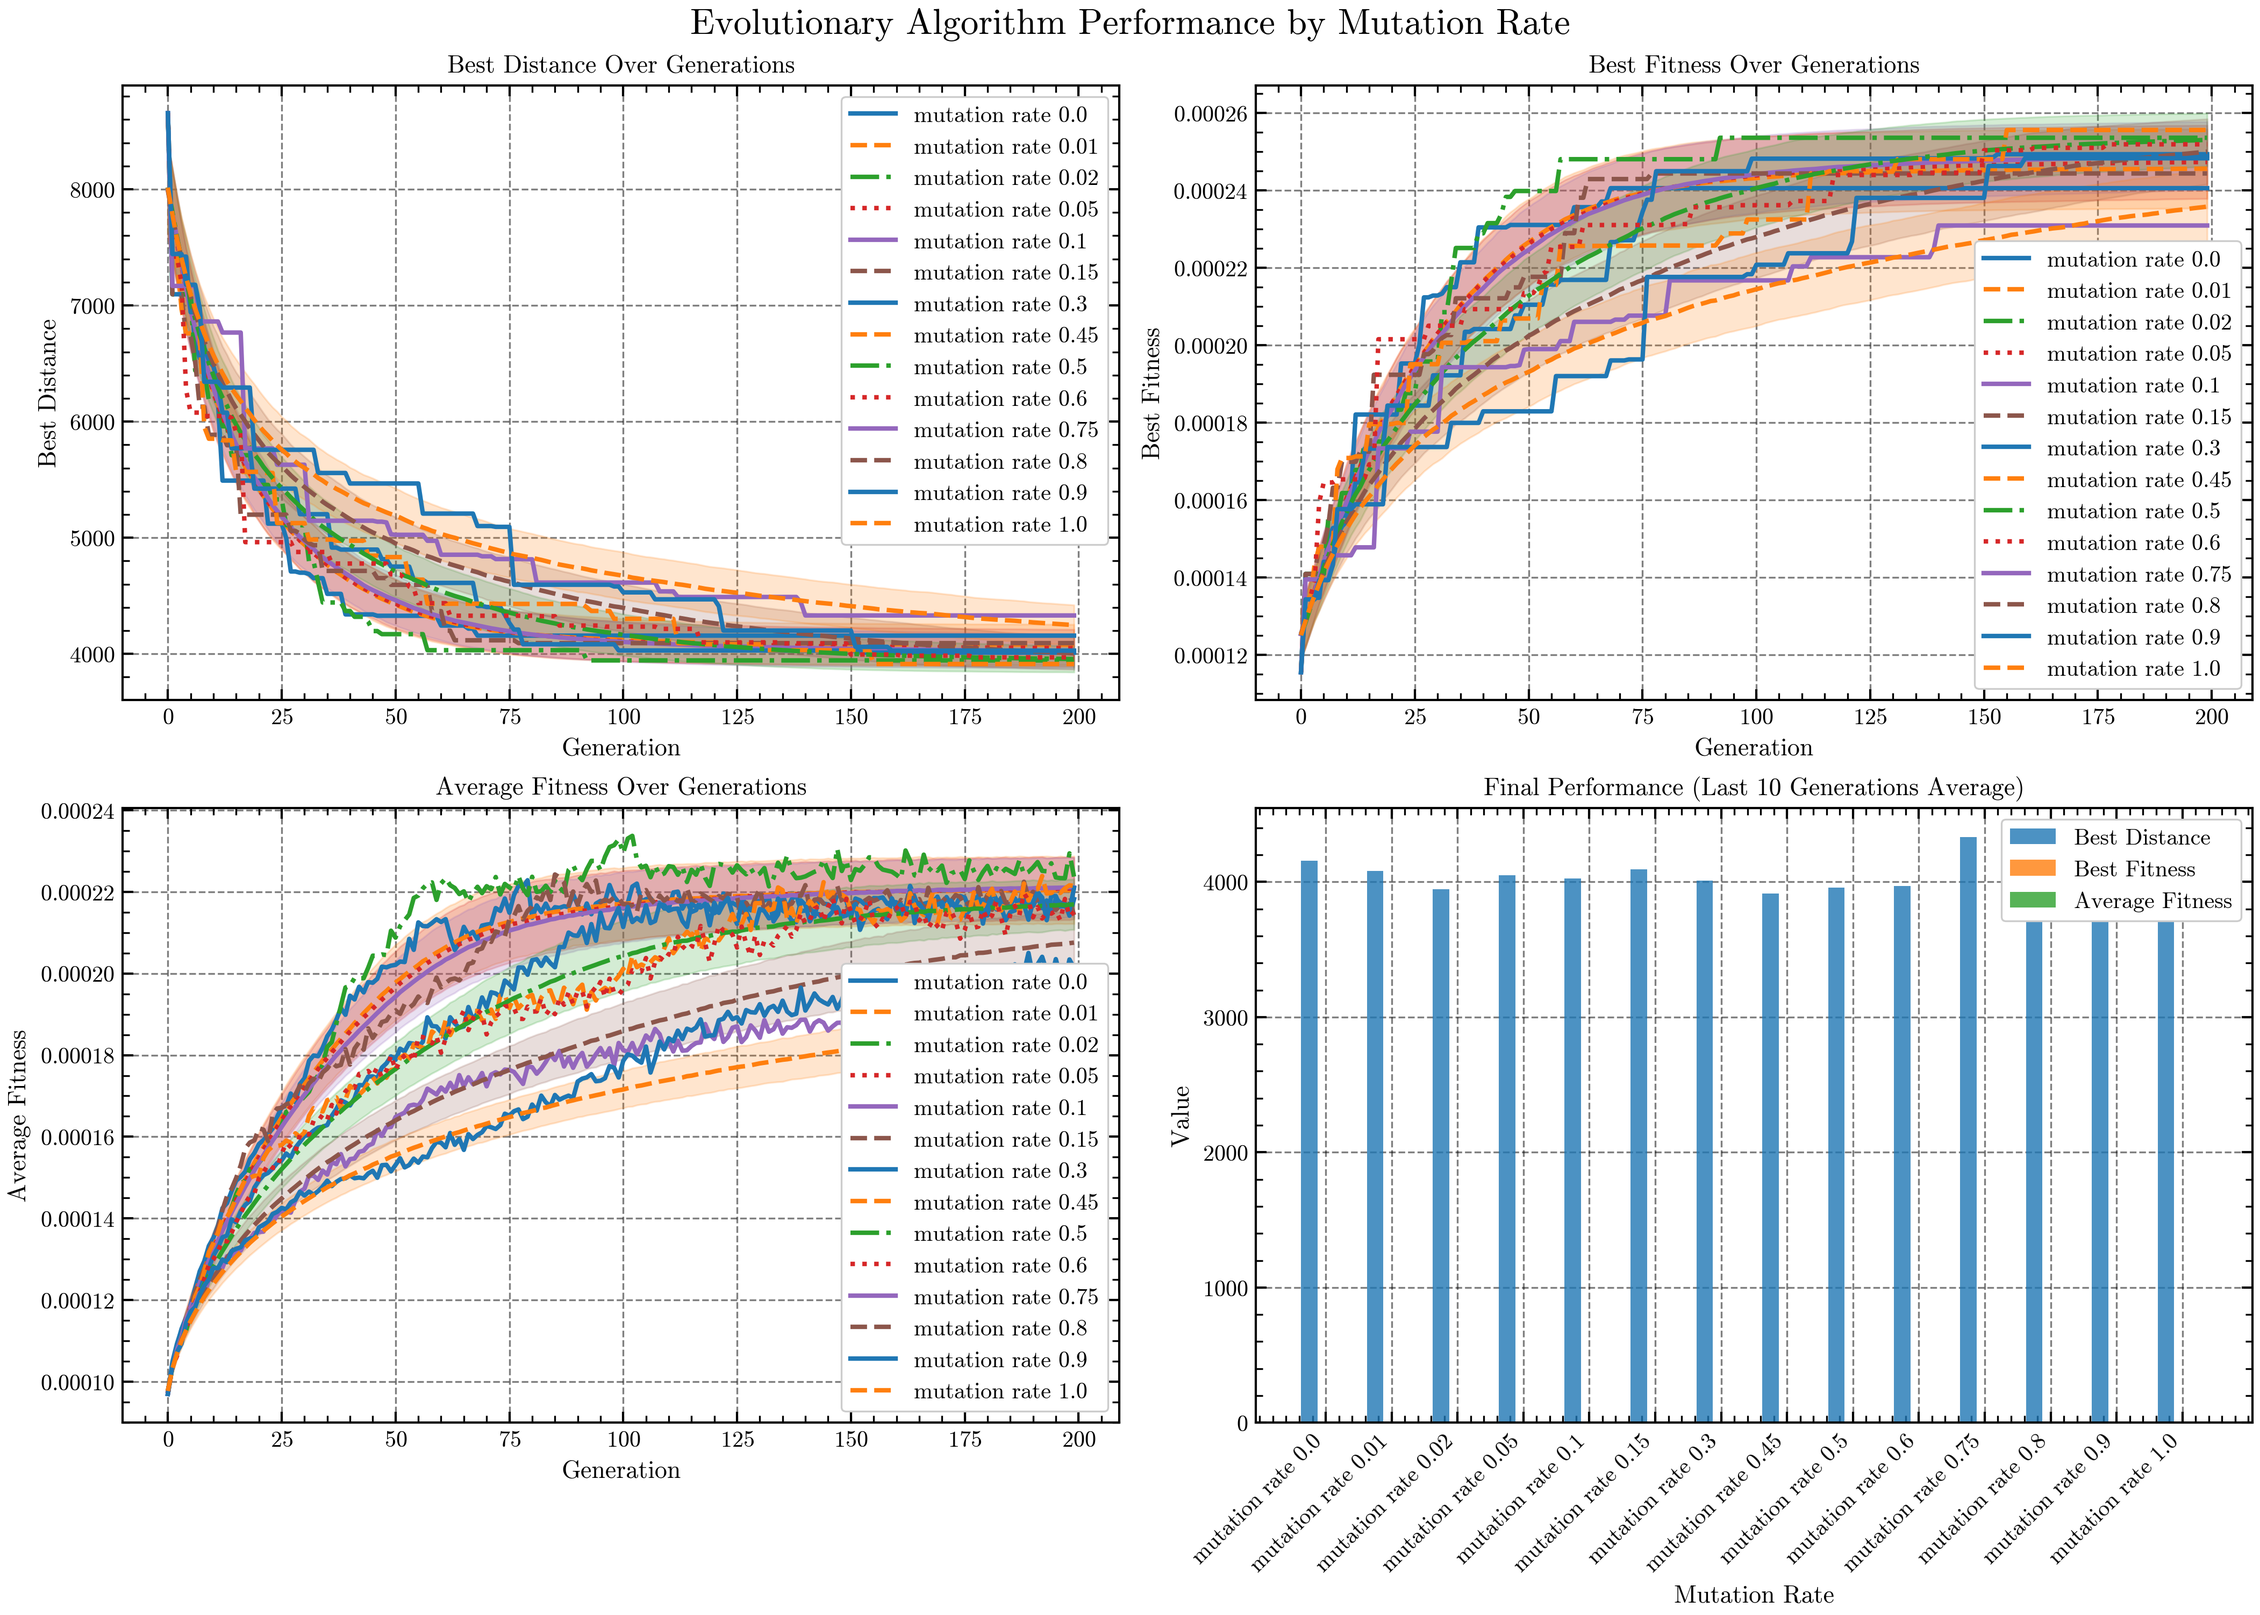
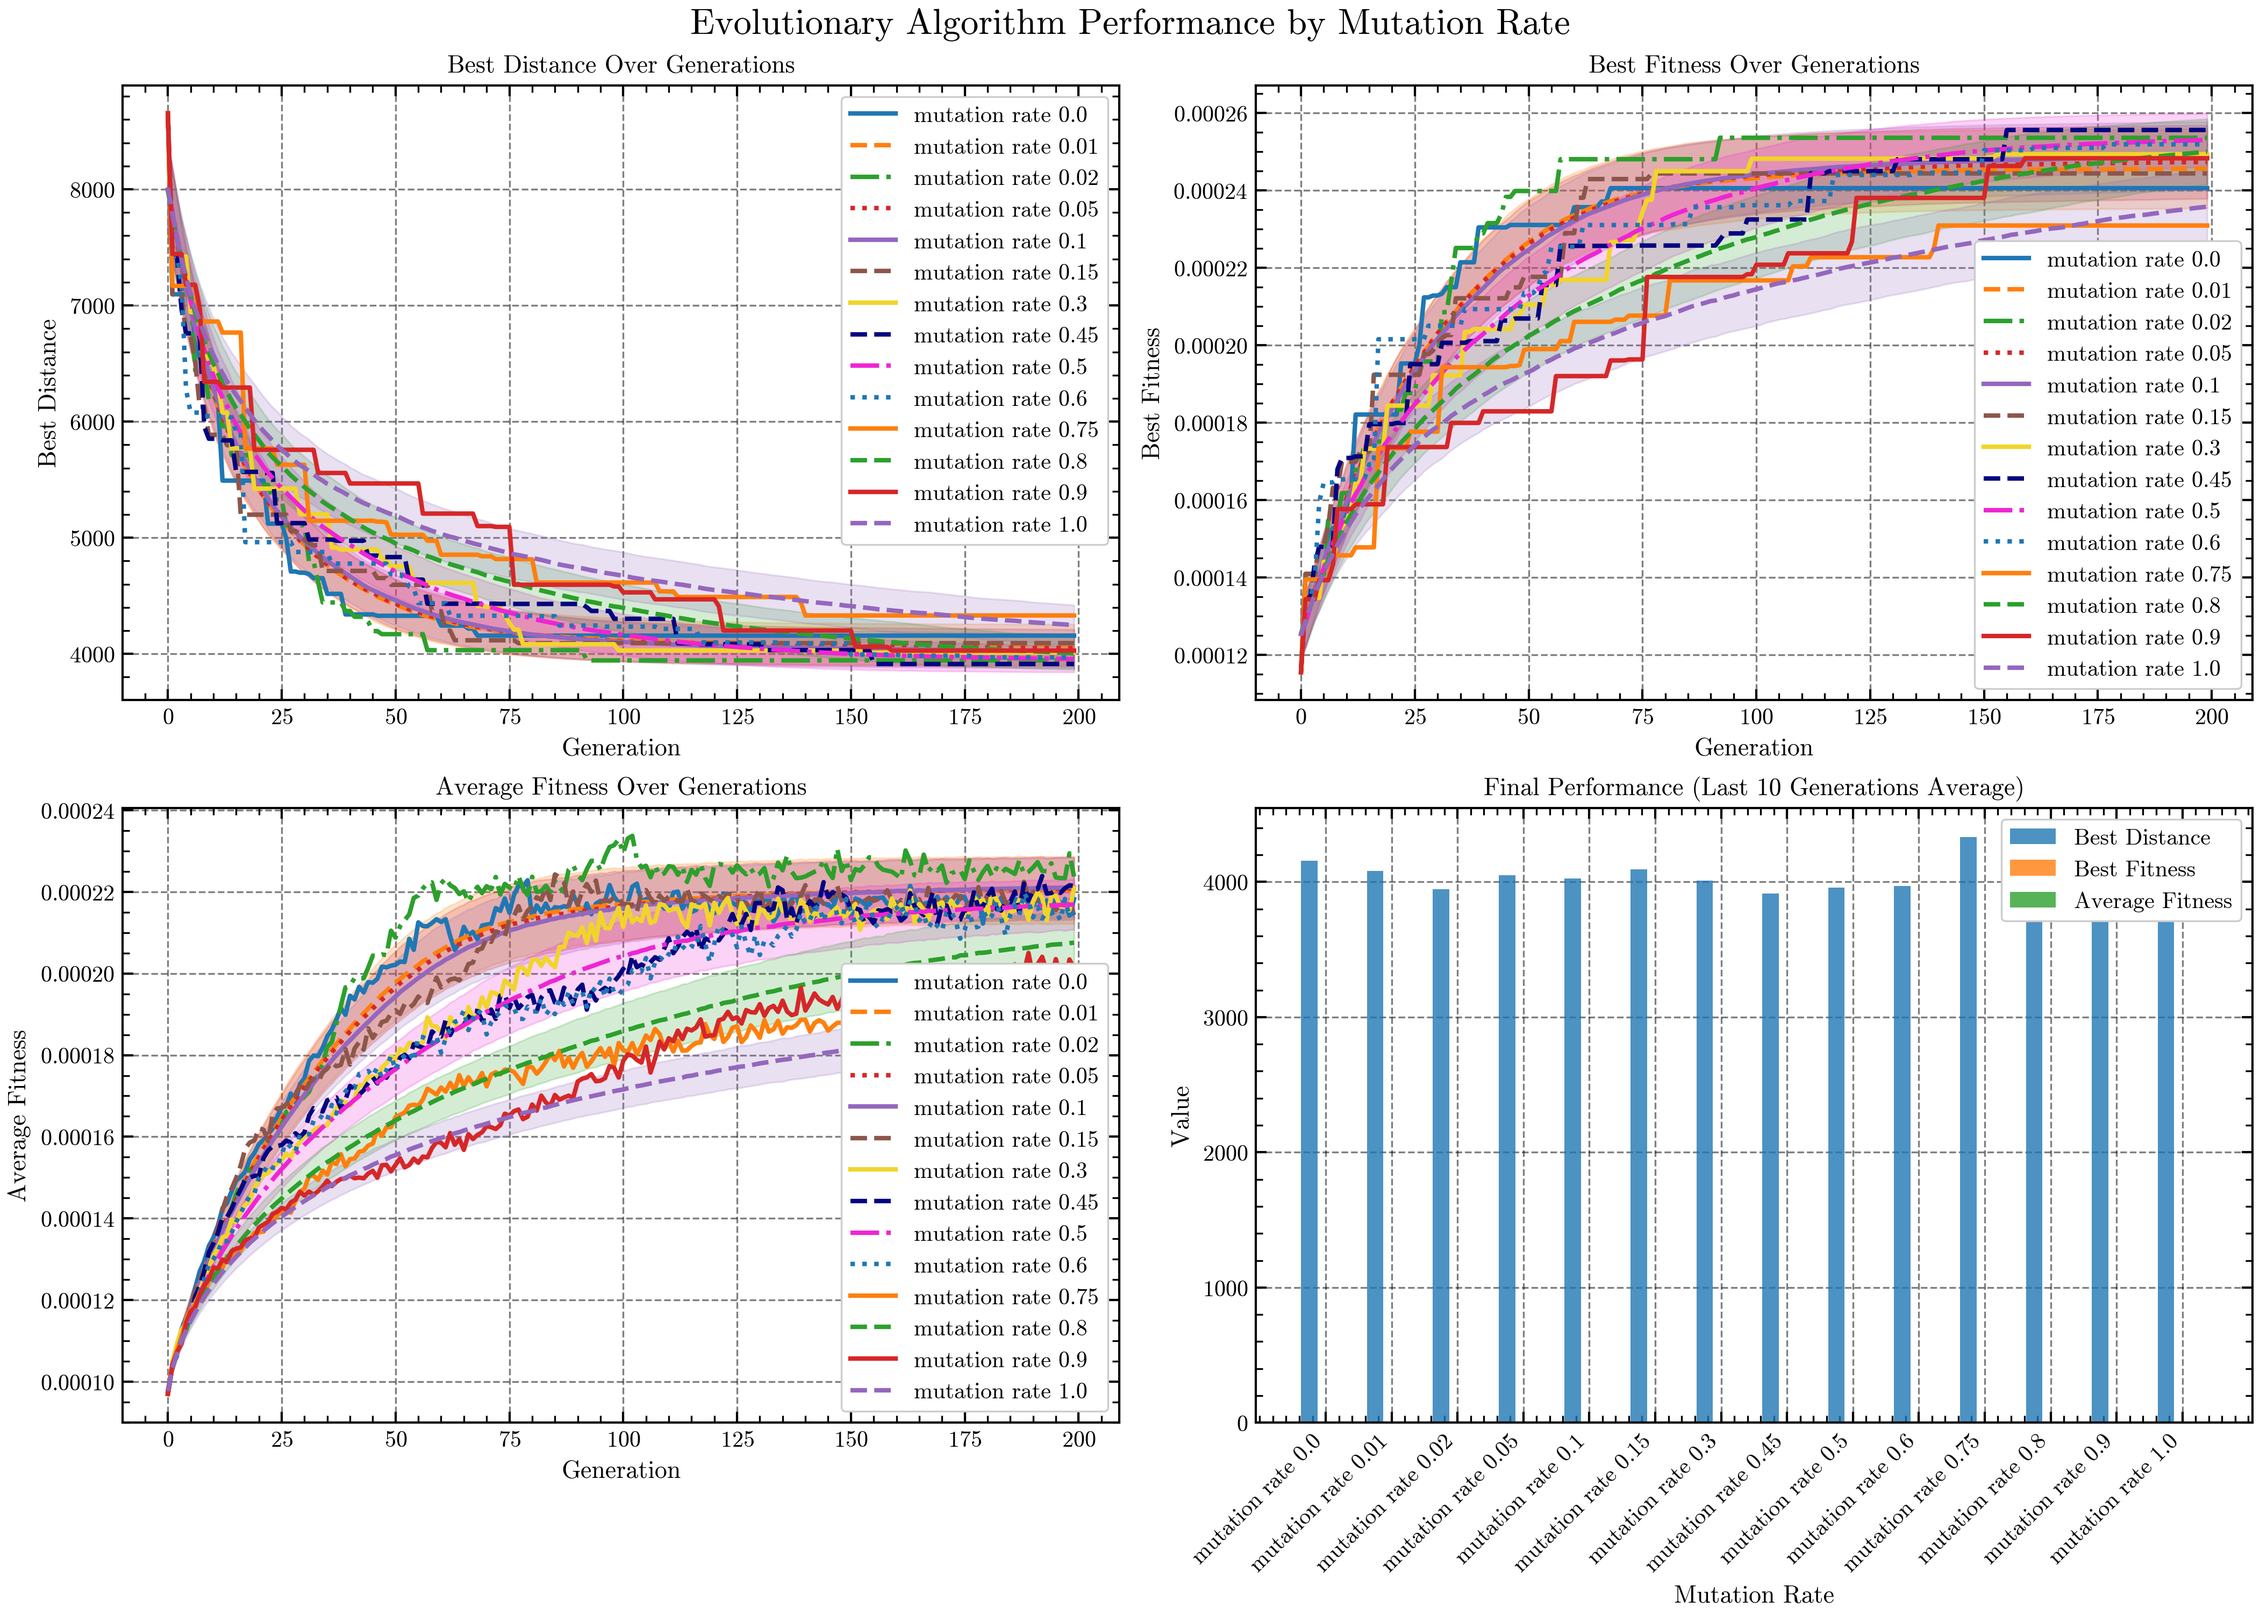
modified the colors  for better visualisation

diff --git a/mean_comparision.py b/mean_comparision.py
@@ -88,7 +88,7 @@ def main():
 def create_comparison_plots(processed_results, output_dir):
     print(f"\nCreating comparative visualizations...")
     fig, axes = plt.subplots(2, 2, figsize=(14, 10), constrained_layout=True)
-    colors = ['#1f77b4', '#ff7f0e', '#2ca02c', '#d62728', '#9467bd', '#8c564b']
+    colors = ['#1f77b4', '#ff7f0e', '#2ca02c', '#d62728', '#9467bd', '#8c564b',"#f1d42bff","#040680","#ee25d3"]
     # Plot 1: Best Distance
     ax = axes[0, 0]
     for i, (rate_name, df) in enumerate(sorted(processed_results.items())):
